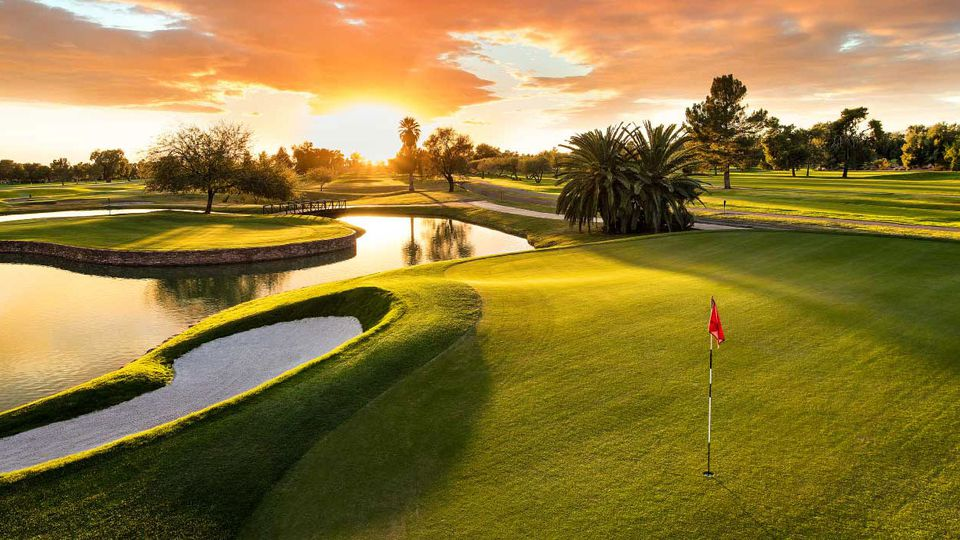
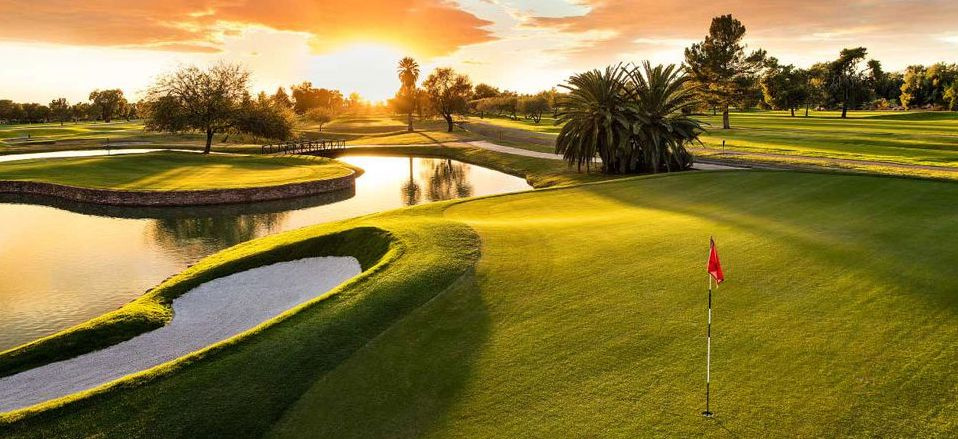
fixed partials and images

diff --git a/public/styles/home.css b/public/styles/home.css
@@ -5,13 +5,13 @@
 body {
     padding-top: 3rem;
     padding-bottom: 3rem;
-    color: #5a5a5a;
+    /* color: #5a5a5a; */
   }
-  
-  
+
+
   /* CUSTOMIZE THE CAROUSEL
   -------------------------------------------------- */
-  
+
   /* Carousel base class */
   .carousel {
     margin-bottom: 4rem;
@@ -21,23 +21,23 @@ body {
     bottom: 3rem;
     z-index: 10;
   }
-  
+
   /* Declare heights because of positioning of img element */
   .carousel-item {
-    height: 32rem;
+    height: 38rem;
   }
   .carousel-item > img {
     position: absolute;
     top: 0;
     left: 0;
     min-width: 100%;
-    height: 32rem;
+    height: 38rem;
   }
-  
-  
+
+
   /* MARKETING CONTENT
   -------------------------------------------------- */
-  
+
   /* Center align the text within the three columns below the carousel */
   .marketing .col-lg-4 {
     margin-bottom: 1.5rem;
@@ -50,26 +50,26 @@ body {
     margin-right: .75rem;
     margin-left: .75rem;
   }
-  
-  
+
+
   /* Featurettes
   ------------------------- */
-  
+
   .featurette-divider {
     margin: 5rem 0; /* Space out the Bootstrap <hr> more */
   }
-  
+
   /* Thin out the marketing headings */
   .featurette-heading {
     font-weight: 300;
     line-height: 1;
     letter-spacing: -.05rem;
   }
-  
-  
+
+
   /* RESPONSIVE CSS
   -------------------------------------------------- */
-  
+
   @media (min-width: 40em) {
     /* Bump up size of carousel content */
     .carousel-caption p {
@@ -77,12 +77,12 @@ body {
       font-size: 1.25rem;
       line-height: 1.4;
     }
-  
+
     .featurette-heading {
       font-size: 50px;
     }
   }
-  
+
   @media (min-width: 62em) {
     .featurette-heading {
       margin-top: 7rem;
